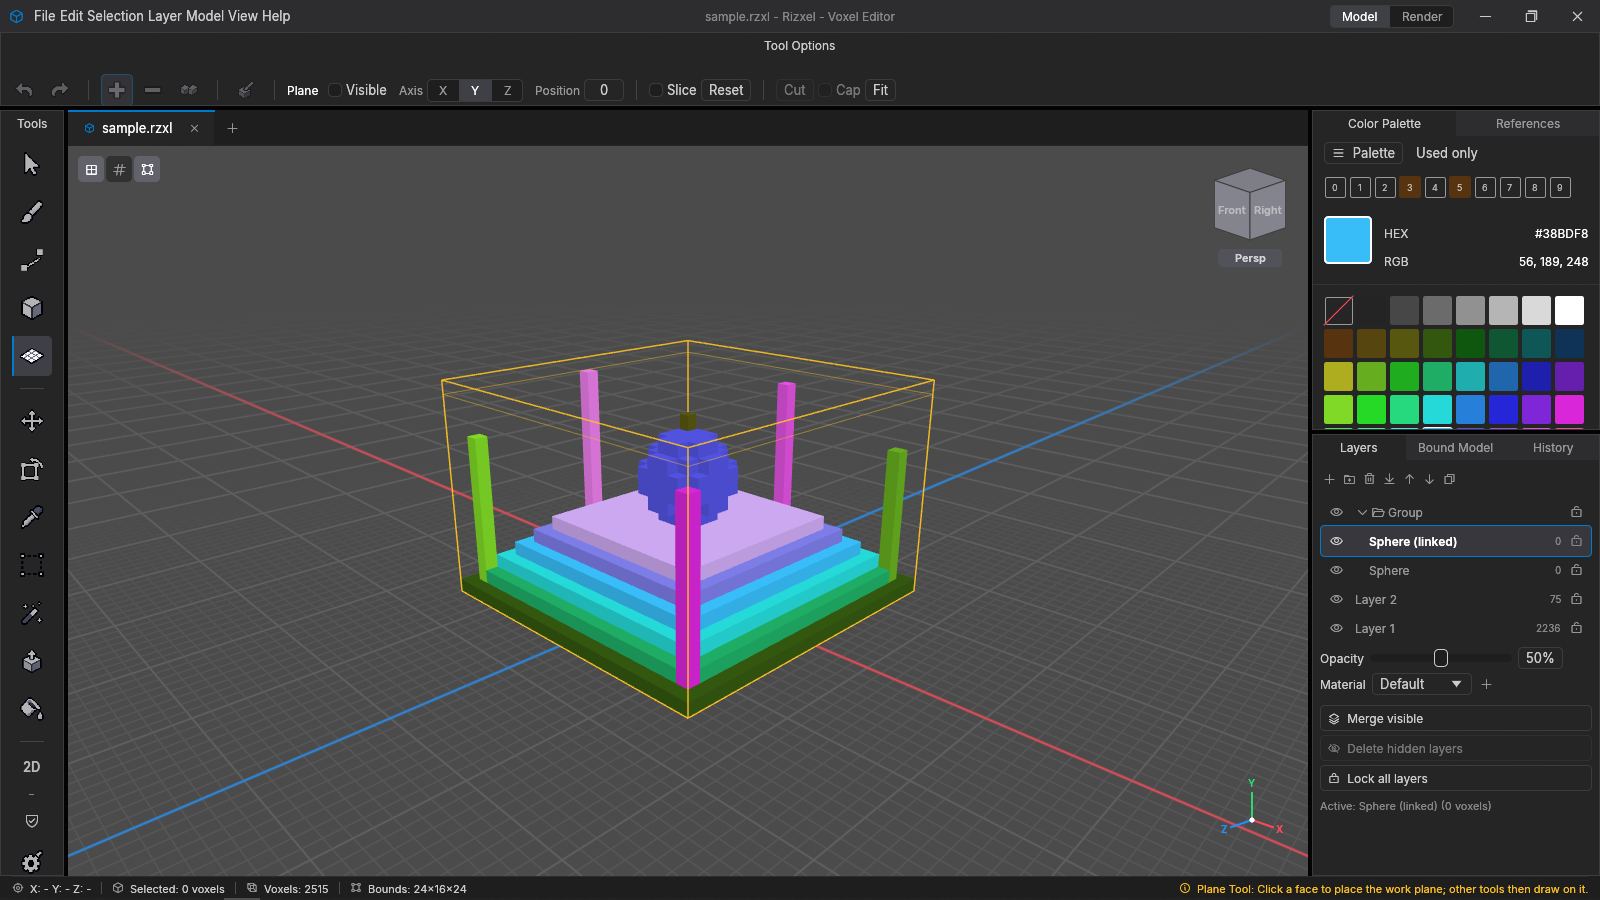
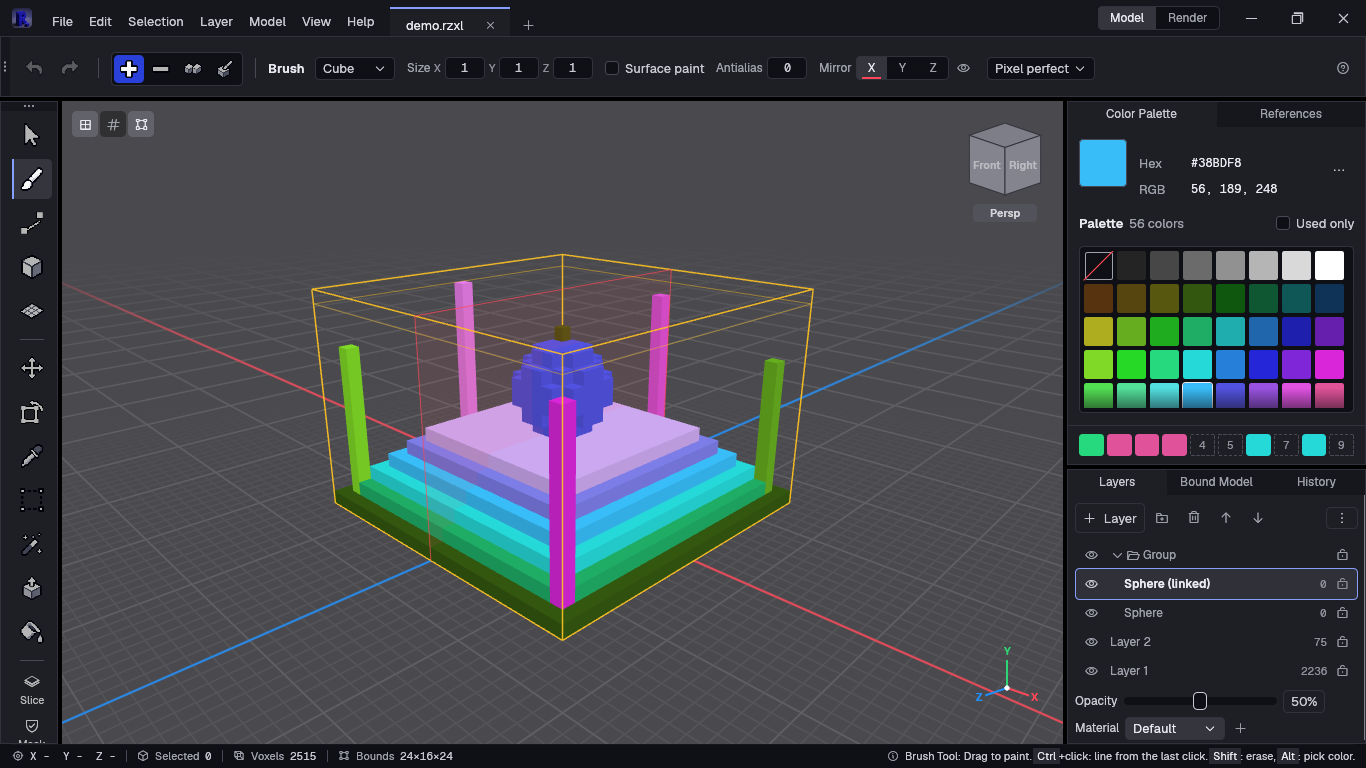
README: new screenshots of the 0.12.0 interface
Model mode (Brush with Mirror X and its plane, the layer tree) and
Render mode (path traced, Brick shape, Display group open) captured from
the 0.12.0 build at 1366×768 with assets/samples/demo.rzxl, and the
1920×1080 Studio White render made again with the render example.

diff --git a/README.md b/README.md
@@ -11,7 +11,7 @@
 [![Platforms](https://img.shields.io/badge/platforms-Windows%20%7C%20Linux%20%7C%20macOS-lightgrey.svg)](#requirements)
 [![unsafe forbidden](https://img.shields.io/badge/unsafe-forbidden-success.svg)](Cargo.toml)
 
-![Rizxel's Render mode with the path tracer and the Brick voxel shape](docs/images/readme/render_mode.png)
+![Rizxel's Render mode: the path tracer with the Brick voxel shape, and the Render panel's Display group open](docs/images/readme/render_mode.png)
 
 </div>
 
@@ -46,10 +46,11 @@ it reads and writes their file formats.
 
 | Model mode | Photo-realistic render |
 |---|---|
-| ![Model mode: tools, viewport, palette and layer tree](docs/images/readme/model_mode.png) | ![Path-traced 1920×1080 render with the Studio White preset and the Brick shape](docs/images/readme/photo_render.png) |
-| Editing tools on the left, the viewport with the view cube in the middle, and the palette, layer tree and history on the right. | A 1920×1080 *Photo-realistic* render of the same model with the **Studio White** preset and the **Brick** voxel shape. |
+| ![Model mode: the Brush tool with Mirror X and its plane, the tools rail, the viewport, the color palette and the layer tree](docs/images/readme/model_mode.png) | ![Path-traced 1920×1080 render with the Studio White preset and the Brick shape](docs/images/readme/photo_render.png) |
+| Editing tools on the left, the viewport with the view cube in the middle (here the Brush with Mirror X, its mirror plane in red), and the color palette and layer tree on the right. | A 1920×1080 *Photo-realistic* render of the same model with the **Studio White** preset and the **Brick** voxel shape. |
 
-The demo model comes from `cargo run -p rizxel-app --example sample_model`.
+The demo model is `assets/samples/demo.rzxl`, written by
+`cargo run -p rizxel-app --example sample_model`.
 
 <img src="docs/images/readme/voxel_icon.png" alt="The rizxel_r sample rendered with the Voxel Icon preset: a blue voxel R outlined cell by cell on a dark floor with a glowing grid" width="480">
 
